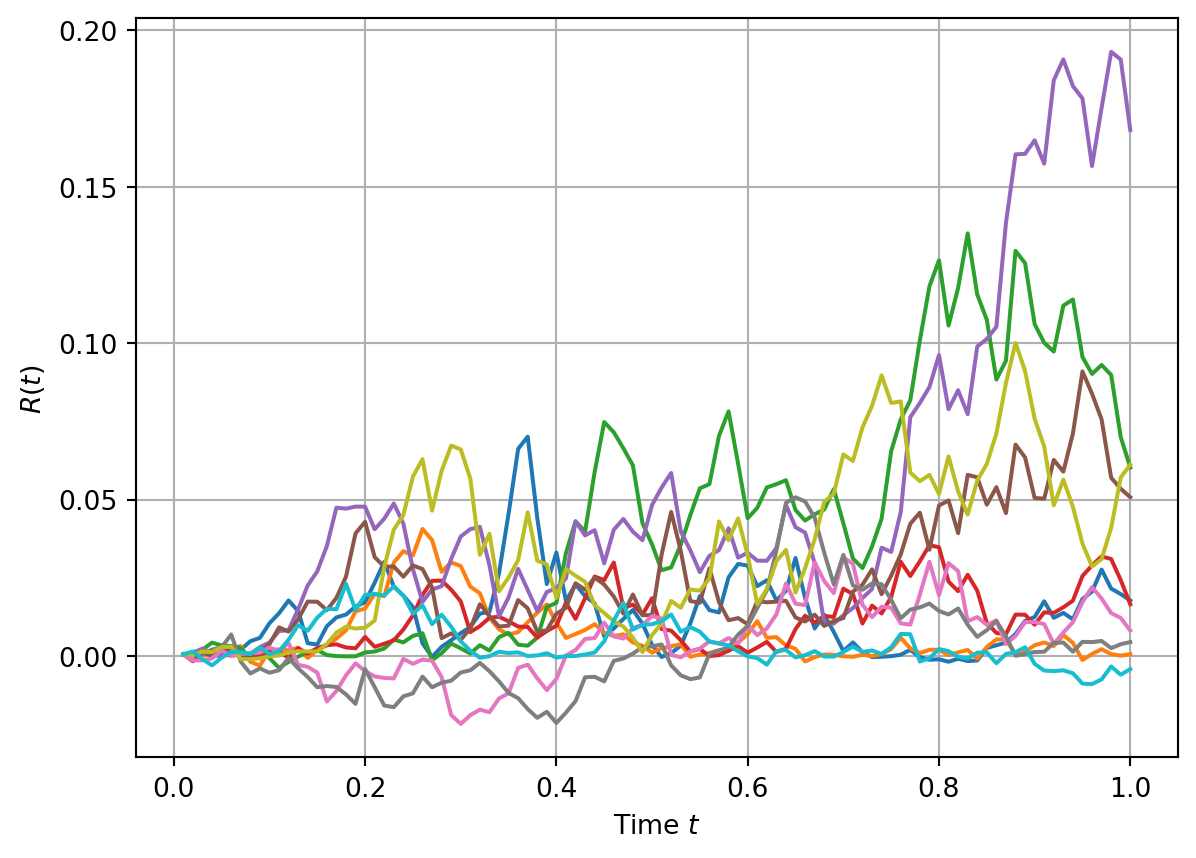
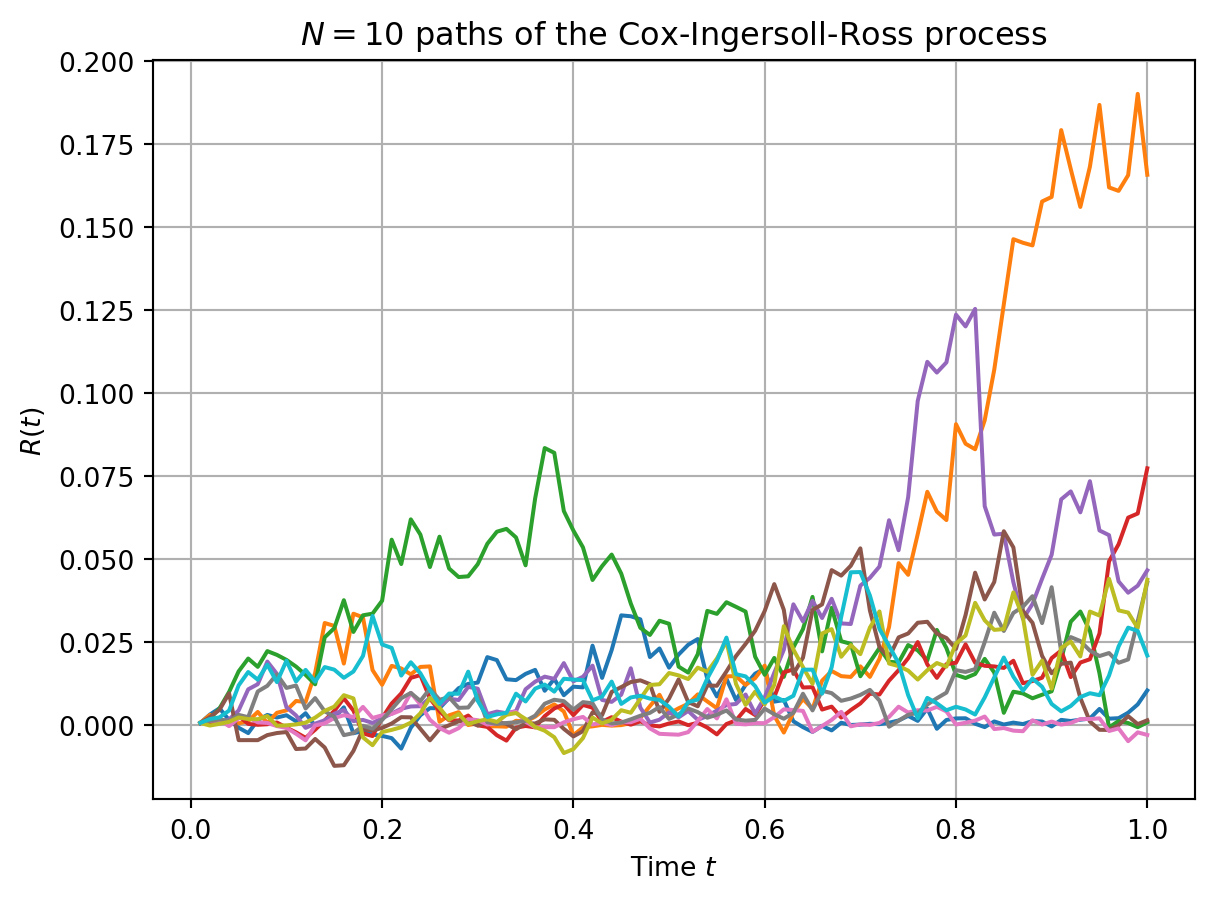
tidying up

Changed region(s): [[0.0, 0.0, 0.99, 0.9394], [0.495, 0.9394, 0.5878, 0.9697], [0.2784, 0.1515, 0.3403, 0.1818]]

diff --git a/docs/posts/cox-ingersoll-ross-model/index.html b/docs/posts/cox-ingersoll-ross-model/index.html
@@ -282,12 +282,13 @@ r_t &amp;= r_0 e^{-\kappa t} + \theta (1 - e^{-\kappa t}) + \sigma \int_{0}^{t} 
 <span id="cb1-54"><a href="#cb1-54" aria-hidden="true" tabindex="-1"></a>plt.grid(<span class="va">True</span>)</span>
 <span id="cb1-55"><a href="#cb1-55" aria-hidden="true" tabindex="-1"></a>plt.xlabel(<span class="vs">r"Time $t$"</span>)</span>
 <span id="cb1-56"><a href="#cb1-56" aria-hidden="true" tabindex="-1"></a>plt.ylabel(<span class="vs">r"$R(t)$"</span>)</span>
-<span id="cb1-57"><a href="#cb1-57" aria-hidden="true" tabindex="-1"></a><span class="cf">for</span> path <span class="kw">in</span> paths:</span>
-<span id="cb1-58"><a href="#cb1-58" aria-hidden="true" tabindex="-1"></a>    plt.plot(t, path)</span>
-<span id="cb1-59"><a href="#cb1-59" aria-hidden="true" tabindex="-1"></a></span>
-<span id="cb1-60"><a href="#cb1-60" aria-hidden="true" tabindex="-1"></a>plt.show()</span></code><button title="Copy to Clipboard" class="code-copy-button"><i class="bi"></i></button></pre></div>
+<span id="cb1-57"><a href="#cb1-57" aria-hidden="true" tabindex="-1"></a>plt.title(<span class="vs">r"$N=10$ paths of the Cox-Ingersoll-Ross process"</span>)</span>
+<span id="cb1-58"><a href="#cb1-58" aria-hidden="true" tabindex="-1"></a><span class="cf">for</span> path <span class="kw">in</span> paths:</span>
+<span id="cb1-59"><a href="#cb1-59" aria-hidden="true" tabindex="-1"></a>    plt.plot(t, path)</span>
+<span id="cb1-60"><a href="#cb1-60" aria-hidden="true" tabindex="-1"></a></span>
+<span id="cb1-61"><a href="#cb1-61" aria-hidden="true" tabindex="-1"></a>plt.show()</span></code><button title="Copy to Clipboard" class="code-copy-button"><i class="bi"></i></button></pre></div>
 <div class="cell-output cell-output-display">
-<p><img src="index_files/figure-html/cell-2-output-1.png" width="598" height="429"></p>
+<p><img src="index_files/figure-html/cell-2-output-1.png" width="607" height="450"></p>
 </div>
 </div>
 

diff --git a/docs/index.html b/docs/index.html
@@ -153,7 +153,7 @@ ul.task-list li input[type="checkbox"] {
 
 <div class="quarto-listing quarto-listing-container-grid" id="listing-listing">
 <div class="list grid quarto-listing-cols-3">
-<div class="g-col-1" data-index="0" data-categories="cox-ingersoll-ross-model,interest-rate-modelling" data-listing-date-sort="1715119200000" data-listing-file-modified-sort="1715169773823" data-listing-date-modified-sort="NaN" data-listing-reading-time-sort="4">
+<div class="g-col-1" data-index="0" data-categories="cox-ingersoll-ross-model,interest-rate-modelling" data-listing-date-sort="1715119200000" data-listing-file-modified-sort="1715169908110" data-listing-date-modified-sort="NaN" data-listing-reading-time-sort="4">
 <a href="./posts/cox-ingersoll-ross-model/index.html" class="quarto-grid-link">
 <div class="quarto-grid-item card h-100 card-left">
 <p class="card-img-top"><img src="posts\cox-ingersoll-ross-model\index_files\figure-html\cell-2-output-1.png" style="height: 150px;"  class="thumbnail-image card-img"/></p>
